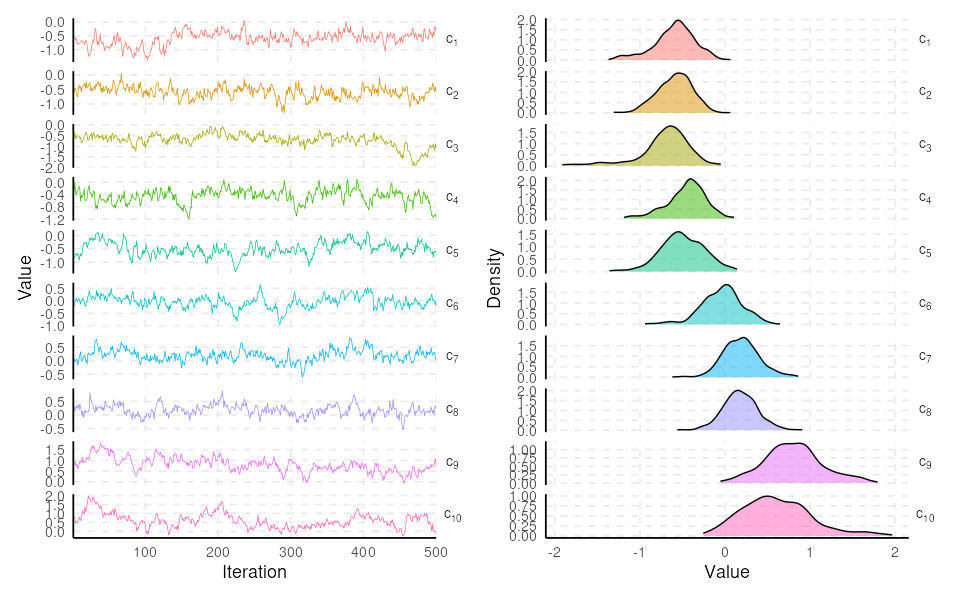
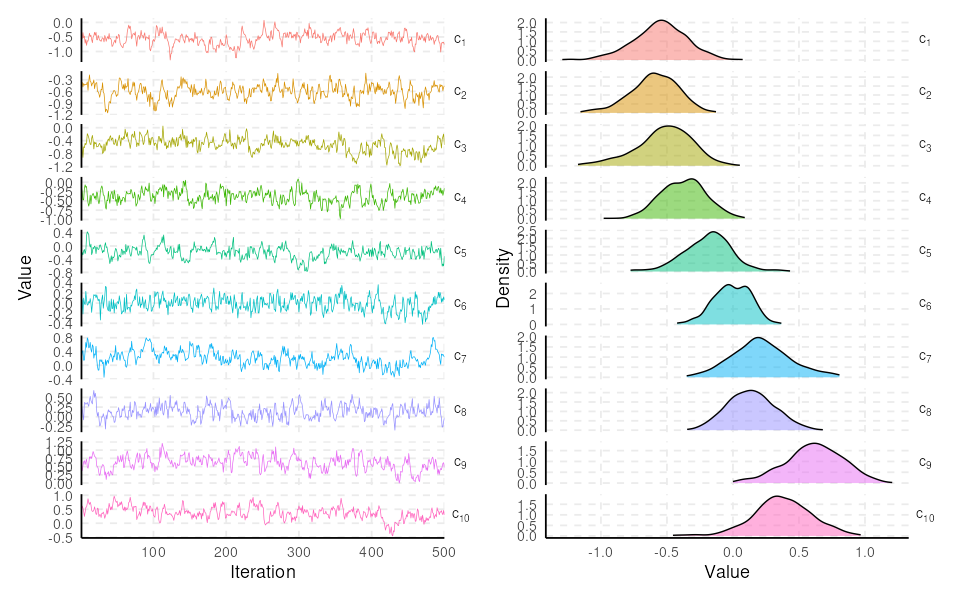
Improve readme.md and add citation

diff --git a/README.md b/README.md
@@ -2,53 +2,86 @@
 
 <!-- badges: start -->
 [![R-CMD-check](https://github.com/ErickChacon/spifa/actions/workflows/R-CMD-check.yaml/badge.svg)](https://github.com/ErickChacon/spifa/actions/workflows/R-CMD-check.yaml)
+[![pkgdown](https://github.com/ErickChacon/spifa/actions/workflows/pkgdown.yaml/badge.svg)](https://github.com/ErickChacon/spifa/actions/workflows/pkgdown.yaml)
 <!-- badges: end -->
 
 ## Introduction
 
-**spifa** fits item factor analysis (IFA) models for binary responses using
-full Bayesian inference (Gibbs sampling with adaptive Metropolis-Hastings),
-via auxiliary variables with a probit link function. Beyond standard
-exploratory and confirmatory IFA, the latent factors can be modelled as a
-multivariate Gaussian process to capture spatial dependence, so spatially
-referenced constructs (e.g. an ideology or socio-economic index measured at
-survey locations) can be mapped and predicted at new locations.
+**spifa** fits spatial item factor analysis (IFA) models for binary
+responses using full Bayesian inference (adaptive Metropolis-Hastings
+within Gibbs sampling), via auxiliary variables with a probit link
+function. The latent factors are modelled as the sum of a predictor effect,
+a multivariate Gaussian process capturing spatial dependence, and a
+multivariate non-spatial term, so spatially referenced constructs (e.g.
+food insecurity or a socio-economic index measured at survey locations)
+can be mapped and predicted at new locations. Standard exploratory and
+confirmatory IFA are supported as particular cases, simply by dropping the
+spatial structure.
 
-For item factor analysis *without* spatial structure, see the
-[`mirt`](https://cran.r-project.org/package=mirt) package, which **spifa**
-complements rather than replaces.
+The package implements the methodology described in "Mapping food
+insecurity in the Brazilian Amazon using a spatial item factor analysis
+model" (2025), published in *The Annals of Applied Statistics* at
+<https://doi.org/10.1214/25-AOAS2072> (see [Citation](#citation) below). In
+addition to the core spatial item factor analysis model, **spifa** offers
+tools for model diagnostics, visualization, and summarizing results.
 
 ## Installation
 
+You can install the development version from GitHub:
+
 ```r
-# install.packages("remotes")
 remotes::install_github("ErickChacon/spifa")
 ```
 
 ## Basic usage
 
-A minimal *spatial* item factor analysis fit on the bundled `ipixuna`
-dataset (an `sf` object, so a spatial Gaussian process is added
-automatically -- see `?spifa`):
+A minimal *spatial* item factor analysis fit on the bundled `ipixuna` dataset (a
+simulated `sf` object with `items` responses for geo-referenced households). We
+define the factor loadings structure (discrimination) and fit the model with the
+default spatial structure for each factor:
 
 ```r
 library(spifa)
 
 data(ipixuna)
-samples <- spifa(items ~ 1, data = ipixuna, nfactors = 3, niter = 1000)
+nfactors <- 3
+nitems <- ncol(ipixuna$items)
 
-samples
-summary(samples, burnin = 500, select = "c")
+# define a restriction for the discrimination
+A <- matrix(1, nitems, nfactors)
+A[c(1, 3, 5), 1] <- 0
+A[c(2, 6, 9), 2] <- 0
+A[c(4, 7, 10), 3] <- 0
+
+# sampling from the posterior distribution
+samples <- spifa(items ~ 1, data = ipixuna, nfactors = nfactors, niter = 1000,
+  constraints = list(discrimination = A))
+
+# visualize the easiness parameters (c)
 plot(samples, select = "c", burnin = 500)
 ```
 
 <img src="man/figures/README-example.png" width="100%" />
 
-Printing `samples` directly (`print.spifa()`) gives model type, dimensions,
-and a grouped posterior summary table at a glance; `summary()` computes the
-full set of statistics for a specific parameter block; `plot()` gives a
-quick trace + density overview. `plot_trace()`/`plot_density()`/
-`plot_interval()` cover trace, density, and credible-interval views
-individually, for any parameter block. See `vignette("spifa-ipixuna")` for
-a full worked example with predictors and a theory-driven discrimination
-structure.
+See `vignette("spifa-ipixuna")` for a full worked example.
+
+## Citation
+
+If you use **spifa** in your work, please cite both the paper that proposes
+the underlying model and the package itself:
+
+> Chacón-Montalván, E. A., Parry, L., Giorgi, E., Torres, P., Orellana,
+> J. D. Y., Moraga, P., and Taylor, B. M. (2025). Mapping food insecurity in
+> the Brazilian Amazon using a spatial item factor analysis model. *The
+> Annals of Applied Statistics*, 19(4), 3438-3463.
+> <https://doi.org/10.1214/25-AOAS2072>
+
+```r
+citation("spifa")
+```
+
+## See also
+
+For item factor analysis *without* spatial structure, see the
+[`mirt`](https://cran.r-project.org/package=mirt) package, which **spifa**
+complements rather than replaces.
